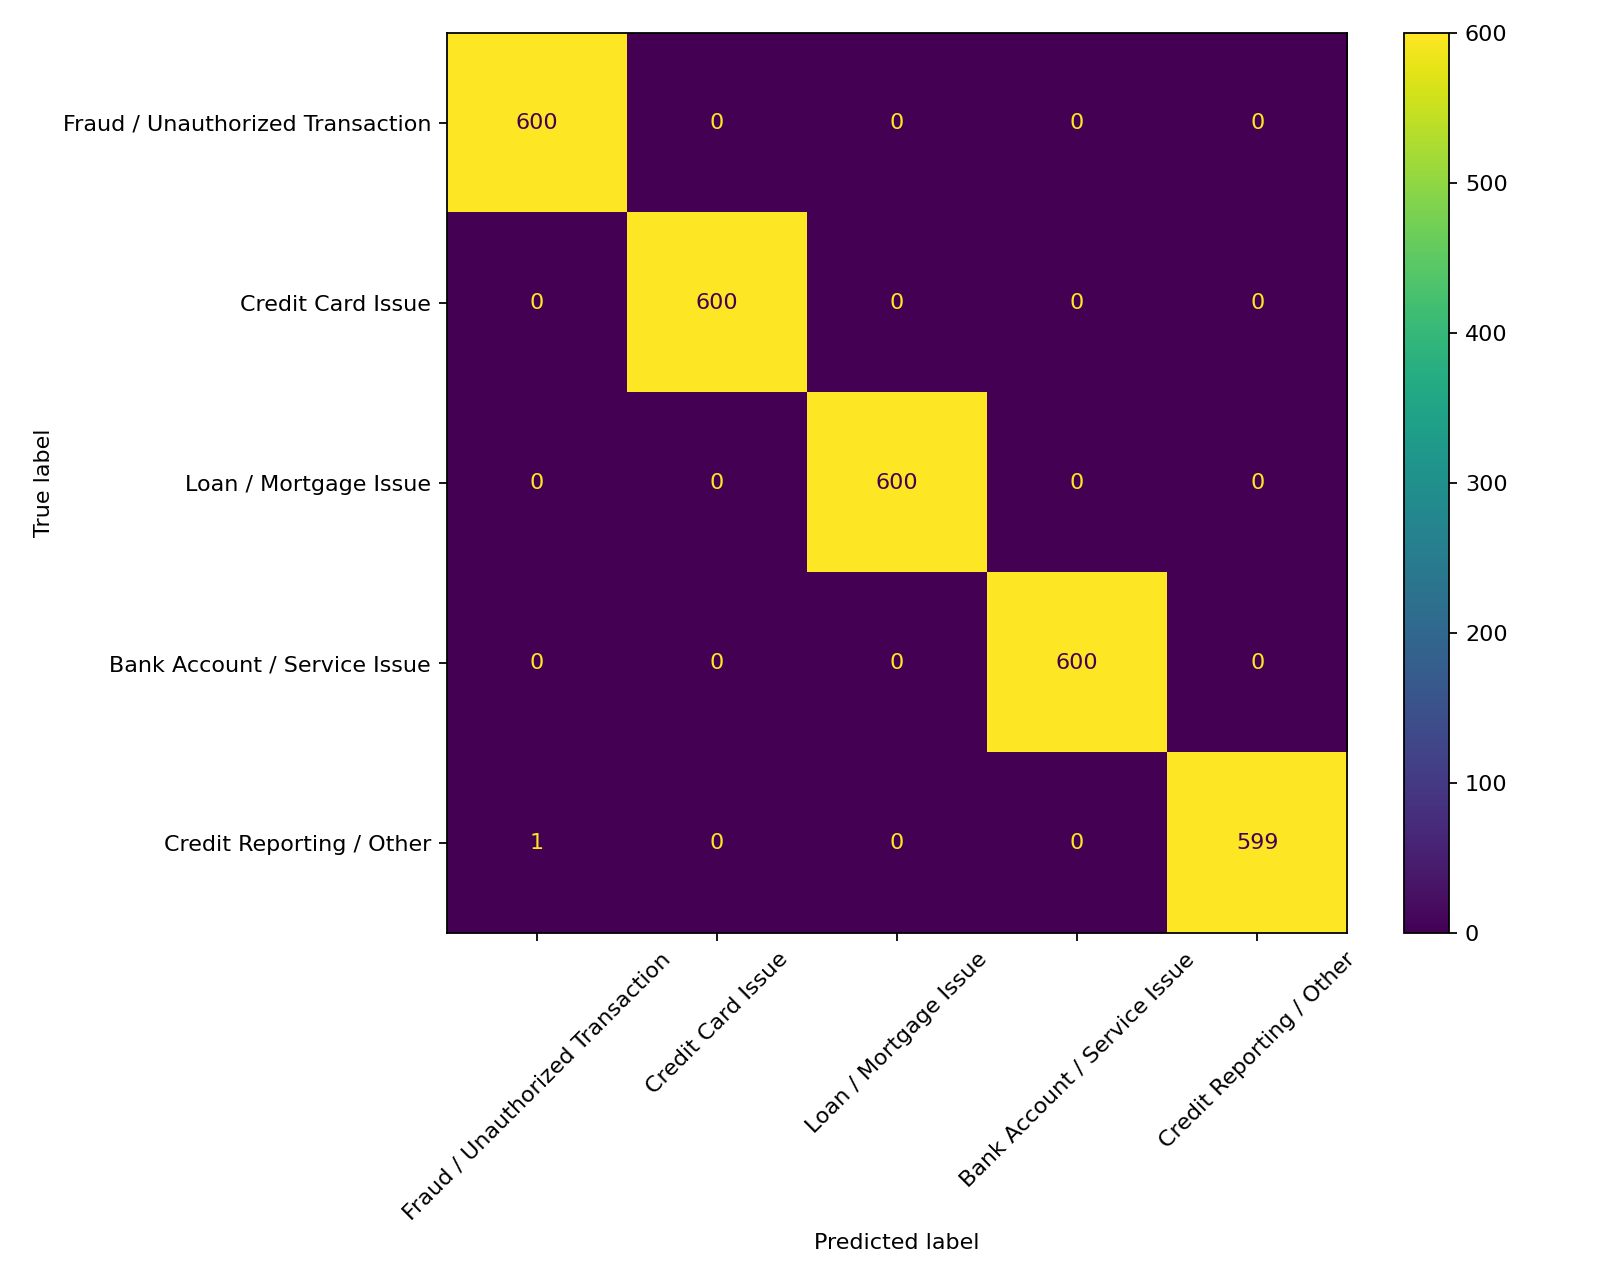
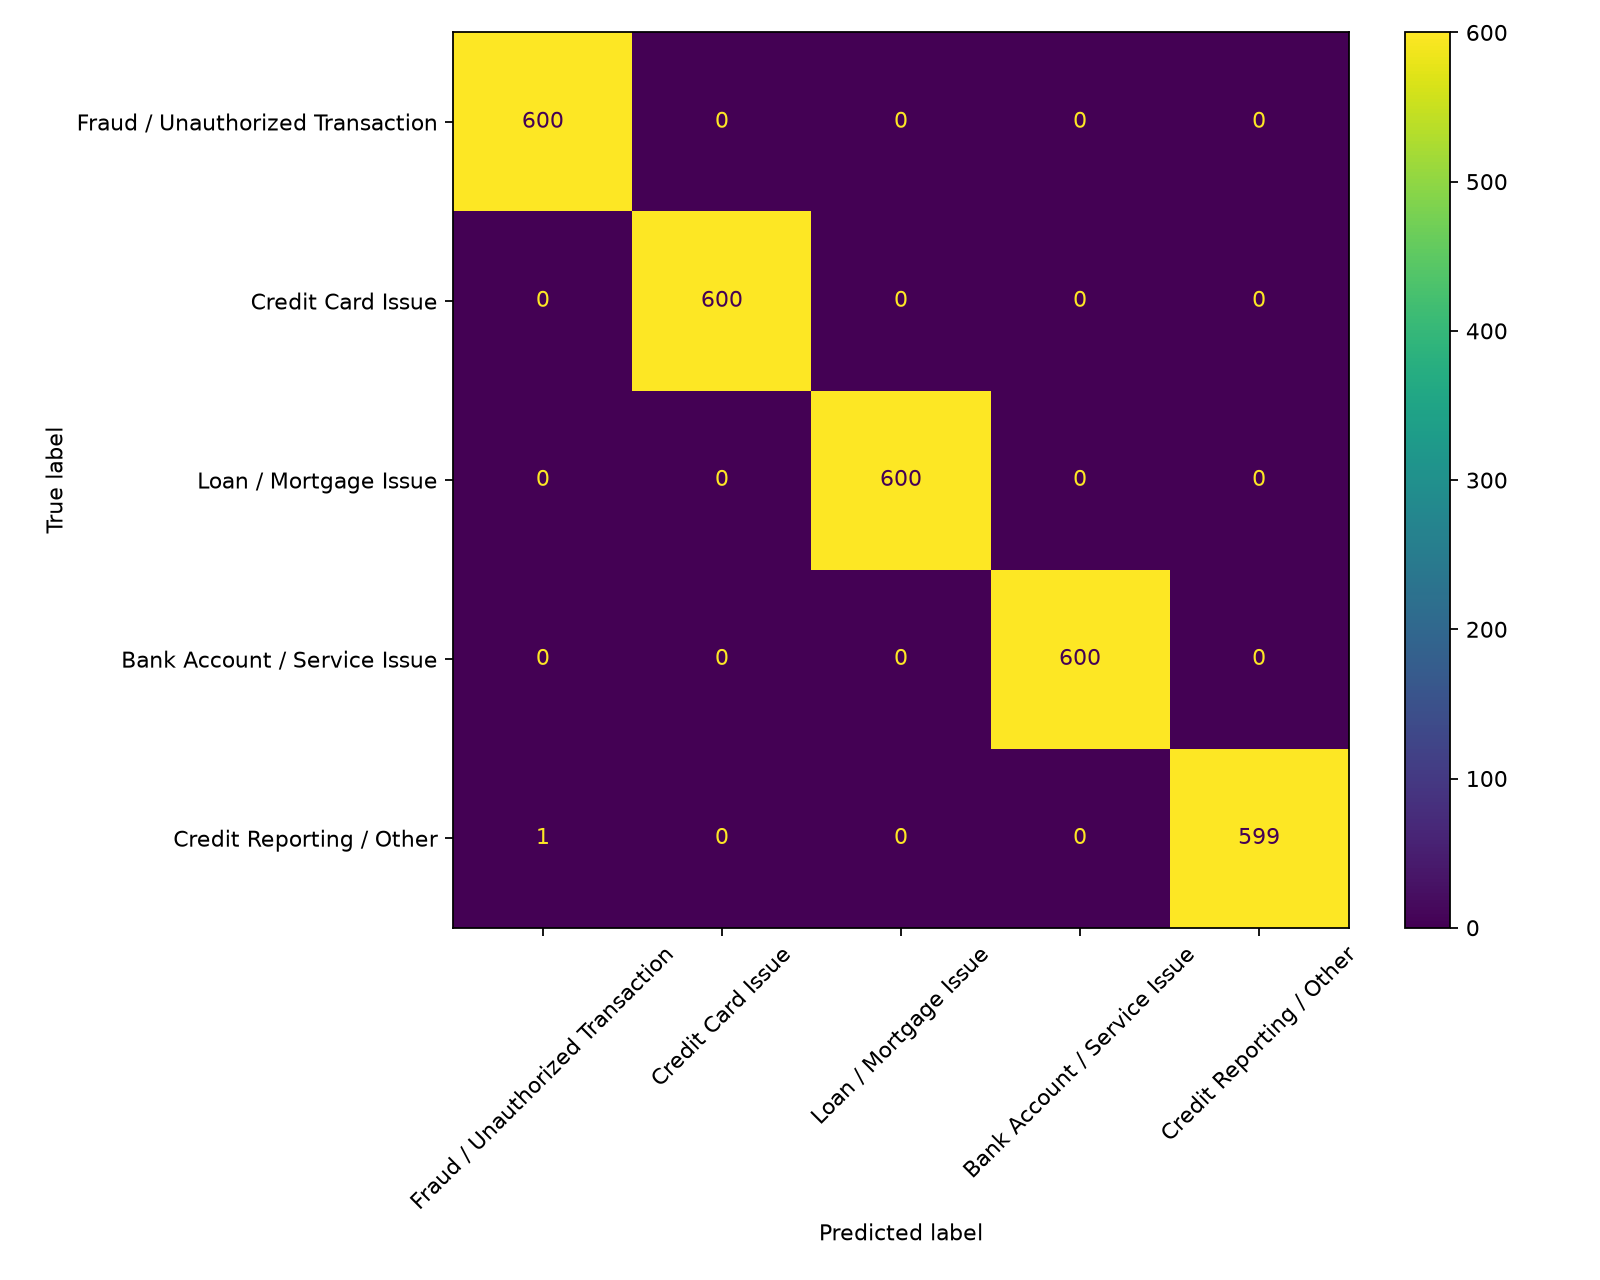
pray

diff --git a/PLAN.md b/PLAN.md
@@ -1,0 +1,346 @@
+# PLAN.md: Fraud-Aware Transaction Complaint Analyzer
+
+> Instructions for the coding agent: execute the phases below IN ORDER. After each phase run its
+> "Acceptance check", fix failures, then `git commit -m "phase N: <name>"`. Do not start the next
+> phase until the check passes. Ask the human only if blocked (e.g. dataset download fails).
+
+## 0. Project summary
+
+A banking web app (Flask + SQLite) where customers file free-text complaints about their
+transactions. An NLP pipeline classifies each complaint (category, sentiment, urgency), and the
+system raises fraud flags by combining NLP output with rule-based checks on transaction data. Staff
+review complaints and flags through a dashboard.
+
+Satisfies both subjects:
+- **DBMS:** normalized (3NF) schema, constraints, indexes, views, triggers, CRUD GUI, SQL reports.
+- **AI/NLP:** text cleaning, TF-IDF + Logistic Regression classifier, sentiment analysis,
+  urgency scoring, evaluation metrics (accuracy, macro-F1, confusion matrix).
+
+## 1. Tech stack (fixed, do not substitute)
+
+| Layer | Choice |
+|---|---|
+| Language | Python 3.11+ |
+| Web/GUI | Flask + Jinja2 templates + Bootstrap 5 (CDN) + Chart.js (CDN) |
+| Database | SQLite via the built-in `sqlite3` module, **raw SQL** (no ORM, so SQL is visible for evaluation). Keep DDL MySQL-portable where possible. |
+| NLP/ML | pandas, scikit-learn, nltk (VADER), joblib |
+| Testing | pytest |
+| Diagrams | Mermaid (`.mmd`), exported to PNG with `npx @mermaid-js/mermaid-cli` if available |
+
+`requirements.txt`: flask, pandas, scikit-learn, nltk, joblib, pytest, matplotlib, werkzeug, faker
+
+## 2. Repository layout
+
+```
+complaint-analyzer/
+├── app/
+│   ├── __init__.py          # Flask app factory, registers blueprints
+│   ├── db.py                # get_db(), init_db(), query helpers
+│   ├── auth.py              # login/logout, role_required decorator
+│   ├── routes/
+│   │   ├── customers.py  accounts.py  transactions.py
+│   │   ├── complaints.py fraud.py     reports.py   model_info.py
+│   ├── services/
+│   │   ├── nlp_service.py   # load model, predict(text) -> dict
+│   │   └── fraud_rules.py   # rule-based transaction checks
+│   ├── templates/           # base.html + one folder per module
+│   └── static/
+├── sql/
+│   ├── schema.sql  triggers.sql  views.sql  indexes.sql  queries.sql
+├── ml/
+│   ├── prepare_data.py      # clean + map CFPB data -> data/processed.csv
+│   ├── train.py             # train, evaluate, save model + metrics
+│   └── models/              # complaint_clf.joblib (git-ignored if large)
+├── data/                    # raw/ (CFPB csv), processed.csv, seed outputs
+├── scripts/seed_db.py       # fake customers/accounts/transactions + sample complaints
+├── tests/                   # test_db.py test_nlp.py test_rules.py test_routes.py
+├── docs/                    # SRS.md erd.mmd normalization.md TEST_REPORT.md PROGRESS.md
+├── config.py  run.py  requirements.txt  README.md
+```
+
+## 3. Database design
+
+### 3.1 Tables (create in `sql/schema.sql`; enable `PRAGMA foreign_keys = ON` on every connection)
+
+```sql
+CREATE TABLE account_types (
+  type_id INTEGER PRIMARY KEY AUTOINCREMENT,
+  type_name TEXT NOT NULL UNIQUE            -- Savings, Current, Credit Card, Loan
+);
+CREATE TABLE customers (
+  customer_id INTEGER PRIMARY KEY AUTOINCREMENT,
+  full_name TEXT NOT NULL,
+  email TEXT NOT NULL UNIQUE CHECK (email LIKE '%_@_%._%'),
+  phone TEXT,
+  city TEXT,
+  created_at TEXT NOT NULL DEFAULT (datetime('now'))
+);
+CREATE TABLE accounts (
+  account_id INTEGER PRIMARY KEY AUTOINCREMENT,
+  customer_id INTEGER NOT NULL REFERENCES customers(customer_id) ON DELETE CASCADE,
+  type_id INTEGER NOT NULL REFERENCES account_types(type_id),
+  account_number TEXT NOT NULL UNIQUE,
+  balance REAL NOT NULL DEFAULT 0,
+  status TEXT NOT NULL DEFAULT 'ACTIVE' CHECK (status IN ('ACTIVE','FROZEN','CLOSED')),
+  opened_on TEXT NOT NULL DEFAULT (date('now'))
+);
+CREATE TABLE transactions (
+  txn_id INTEGER PRIMARY KEY AUTOINCREMENT,
+  account_id INTEGER NOT NULL REFERENCES accounts(account_id) ON DELETE CASCADE,
+  txn_type TEXT NOT NULL CHECK (txn_type IN ('CREDIT','DEBIT')),
+  amount REAL NOT NULL CHECK (amount > 0),
+  merchant TEXT,
+  location TEXT,                             -- city/country string
+  txn_time TEXT NOT NULL DEFAULT (datetime('now')),
+  status TEXT NOT NULL DEFAULT 'COMPLETED' CHECK (status IN ('COMPLETED','DISPUTED','REVERSED'))
+);
+CREATE TABLE complaint_categories (
+  category_id INTEGER PRIMARY KEY AUTOINCREMENT,
+  name TEXT NOT NULL UNIQUE                  -- see 4.2 for the 5 fixed values
+);
+CREATE TABLE model_versions (
+  model_id INTEGER PRIMARY KEY AUTOINCREMENT,
+  name TEXT NOT NULL,
+  accuracy REAL, macro_f1 REAL,
+  trained_at TEXT NOT NULL DEFAULT (datetime('now'))
+);
+CREATE TABLE staff (
+  staff_id INTEGER PRIMARY KEY AUTOINCREMENT,
+  username TEXT NOT NULL UNIQUE,
+  password_hash TEXT NOT NULL,
+  role TEXT NOT NULL CHECK (role IN ('ADMIN','AGENT'))
+);
+CREATE TABLE complaints (
+  complaint_id INTEGER PRIMARY KEY AUTOINCREMENT,
+  customer_id INTEGER NOT NULL REFERENCES customers(customer_id) ON DELETE CASCADE,
+  account_id INTEGER REFERENCES accounts(account_id),
+  txn_id INTEGER REFERENCES transactions(txn_id),
+  complaint_text TEXT NOT NULL CHECK (length(complaint_text) >= 20),
+  submitted_at TEXT NOT NULL DEFAULT (datetime('now')),
+  status TEXT NOT NULL DEFAULT 'OPEN' CHECK (status IN ('OPEN','IN_REVIEW','RESOLVED','REJECTED')),
+  category_id INTEGER REFERENCES complaint_categories(category_id),   -- predicted/overridden
+  confidence REAL,
+  sentiment_score REAL,                      -- VADER compound, -1..1
+  sentiment_label TEXT CHECK (sentiment_label IN ('NEGATIVE','NEUTRAL','POSITIVE')),
+  urgency TEXT CHECK (urgency IN ('LOW','MEDIUM','HIGH')),
+  model_id INTEGER REFERENCES model_versions(model_id),
+  resolved_at TEXT
+);
+CREATE TABLE fraud_flags (
+  flag_id INTEGER PRIMARY KEY AUTOINCREMENT,
+  txn_id INTEGER NOT NULL REFERENCES transactions(txn_id) ON DELETE CASCADE,
+  complaint_id INTEGER REFERENCES complaints(complaint_id) ON DELETE SET NULL,
+  source TEXT NOT NULL CHECK (source IN ('RULE','NLP','MANUAL')),
+  reason TEXT NOT NULL,
+  severity TEXT NOT NULL CHECK (severity IN ('LOW','MEDIUM','HIGH')),
+  status TEXT NOT NULL DEFAULT 'PENDING' CHECK (status IN ('PENDING','CONFIRMED','DISMISSED')),
+  reviewed_by INTEGER REFERENCES staff(staff_id),
+  created_at TEXT NOT NULL DEFAULT (datetime('now'))
+);
+CREATE TABLE complaint_actions (            -- audit trail
+  action_id INTEGER PRIMARY KEY AUTOINCREMENT,
+  complaint_id INTEGER NOT NULL REFERENCES complaints(complaint_id) ON DELETE CASCADE,
+  staff_id INTEGER REFERENCES staff(staff_id),
+  action TEXT NOT NULL,                     -- e.g. STATUS_CHANGED, CATEGORY_OVERRIDDEN, NOTE
+  note TEXT,
+  acted_at TEXT NOT NULL DEFAULT (datetime('now'))
+);
+```
+
+### 3.2 Indexes (`sql/indexes.sql`)
+`transactions(account_id, txn_time)`, `complaints(customer_id)`, `complaints(status, urgency)`,
+`complaints(category_id)`, `fraud_flags(status)`, `accounts(customer_id)`.
+
+### 3.3 Triggers (`sql/triggers.sql`)
+1. `trg_txn_update_balance` AFTER INSERT ON transactions: add amount for CREDIT, subtract for DEBIT.
+2. `trg_complaint_fraud_flag` AFTER INSERT ON complaints WHEN `NEW.txn_id IS NOT NULL` AND NEW
+   category is "Fraud / Unauthorized Transaction": insert a `fraud_flags` row (source `NLP`,
+   severity from `NEW.urgency`) and set that transaction's status to `DISPUTED`.
+3. `trg_complaint_status_audit` AFTER UPDATE OF status ON complaints: insert into
+   `complaint_actions`; if new status is `RESOLVED`, set `resolved_at`.
+
+### 3.4 Views (`sql/views.sql`)
+- `v_complaint_overview`: complaint + customer name + category name + account number + txn amount.
+- `v_fraud_dashboard`: flags joined with transaction, customer and complaint.
+- `v_category_stats`: complaint count, avg sentiment, % HIGH urgency per category.
+- `v_monthly_complaints`: complaints per month per category.
+
+### 3.5 Report queries (`sql/queries.sql`, each wired to the Reports page)
+Top 10 customers by complaint count; avg resolution time per category; accounts with 3+ fraud
+flags (GROUP BY/HAVING); transactions flagged by both RULE and NLP (INTERSECT or self-join);
+customers with no complaints (LEFT JOIN / NOT EXISTS); complaints above average negative sentiment
+(subquery).
+
+### 3.6 Normalization document (`docs/normalization.md`)
+Show a deliberately un-normalized flat table (customer, account, account type, transaction,
+complaint, category in one row), then walk through 1NF (atomic values, key), 2NF (remove partial
+dependencies: split customers/accounts/transactions), 3NF (remove transitive dependencies:
+account_types, complaint_categories, model_versions). List functional dependencies for each final
+table and state that all tables are in 3NF (and BCNF where it applies).
+
+### 3.7 ER diagram (`docs/erd.mmd`)
+```mermaid
+erDiagram
+  CUSTOMERS ||--o{ ACCOUNTS : owns
+  ACCOUNT_TYPES ||--o{ ACCOUNTS : classifies
+  ACCOUNTS ||--o{ TRANSACTIONS : has
+  CUSTOMERS ||--o{ COMPLAINTS : files
+  ACCOUNTS ||--o{ COMPLAINTS : concerns
+  TRANSACTIONS ||--o{ COMPLAINTS : disputed_in
+  COMPLAINT_CATEGORIES ||--o{ COMPLAINTS : tags
+  MODEL_VERSIONS ||--o{ COMPLAINTS : predicted_by
+  TRANSACTIONS ||--o{ FRAUD_FLAGS : flagged
+  COMPLAINTS ||--o{ FRAUD_FLAGS : triggers
+  STAFF ||--o{ FRAUD_FLAGS : reviews
+  COMPLAINTS ||--o{ COMPLAINT_ACTIONS : logs
+  STAFF ||--o{ COMPLAINT_ACTIONS : performs
+```
+Also export a PNG to `docs/erd.png`, and add the attributes to each entity before exporting.
+
+## 4. NLP / ML pipeline
+
+### 4.1 Data
+- Dataset: CFPB Consumer Complaint Database (consumerfinance.gov, "Consumer Complaint Database"
+  CSV export). The human downloads it to `data/raw/complaints.csv`. If it is missing, **stop and
+  ask the human**; as a fallback only, generate a small synthetic dataset so the pipeline can be
+  tested, and clearly mark it synthetic.
+- Inspect the actual column names first (they vary by export year). Keep rows where the
+  narrative column is non-empty.
+- Sample at most ~3,000 rows per category for balance and fast training.
+
+### 4.2 Fixed label set (5 categories, seeded into `complaint_categories`)
+1. `Fraud / Unauthorized Transaction`
+2. `Credit Card Issue`
+3. `Loan / Mortgage Issue`
+4. `Bank Account / Service Issue`
+5. `Credit Reporting / Other`
+
+Mapping (`ml/prepare_data.py`): use the CFPB `Product` column for categories 2-5, then override to
+category 1 when `Issue`/`Sub-issue` or the narrative matches
+`fraud|unauthorized|scam|stolen|identity theft|did not authorize|not my transaction`.
+Print the final class counts and save `data/processed.csv` with columns `text,label`.
+
+### 4.3 Preprocessing
+Lowercase, remove masked tokens (`XXXX`, `{$...}`), strip digits and punctuation, collapse
+whitespace. Keep it in one function `clean_text()` shared by training and inference.
+
+### 4.4 Model (`ml/train.py`)
+- `TfidfVectorizer(ngram_range=(1,2), min_df=5, max_df=0.9, stop_words='english')`
+- `LogisticRegression(max_iter=1000, class_weight='balanced')` in a single sklearn `Pipeline`
+- Stratified 80/20 split, `random_state=42`
+- Save: `ml/models/complaint_clf.joblib`, `ml/models/metrics.json` (accuracy, macro-F1, per-class
+  precision/recall/F1), `docs/confusion_matrix.png`, and the top 10 TF-IDF terms per class
+  (`docs/top_terms.md`)
+- Insert a row into `model_versions` with accuracy and macro-F1.
+- Target: macro-F1 >= 0.70. Report the real number honestly even if it is lower.
+
+### 4.5 Sentiment and urgency (`app/services/nlp_service.py`)
+- Sentiment: NLTK VADER compound score; label NEGATIVE <= -0.05, POSITIVE >= 0.05, else NEUTRAL.
+  Download `vader_lexicon` at setup.
+- Urgency (heuristic, document it as such in the SRS): start at score 0.
+  +2 if category is Fraud; +1 if sentiment <= -0.5; +1 if text contains
+  `immediately|urgent|stolen|drained|lost all|cannot access|emergency`; +1 if a linked transaction
+  amount is above 10,000. Score >= 3 is HIGH, 2 is MEDIUM, otherwise LOW.
+- `predict(text, txn_amount=None)` returns
+  `{category, confidence, sentiment_score, sentiment_label, urgency, model_id}`.
+- If confidence < 0.45, store the category but mark the complaint `IN_REVIEW` for manual
+  categorisation.
+
+## 5. Rule-based fraud checks (`app/services/fraud_rules.py`)
+
+Run on every new transaction (called from the transactions route after insert) and write to
+`fraud_flags` with source `RULE`:
+1. **Amount spike:** amount > 5x the account's average DEBIT amount (needs >= 5 prior txns). HIGH.
+2. **Velocity:** 4 or more DEBIT transactions on one account within 10 minutes. MEDIUM.
+3. **Location change:** location differs from the account's most common location in the last 30
+   days. MEDIUM.
+Avoid duplicate flags (same txn + same reason).
+
+## 6. Application (Flask)
+
+### 6.1 Auth and roles
+Staff login with hashed passwords (`werkzeug.security`). ADMIN: everything including staff,
+customers and model info. AGENT: complaints, fraud flags, reports (read-only on customers).
+Customer-facing "Submit complaint" page needs no login but looks the customer up by email +
+account number.
+
+### 6.2 Pages and routes
+| Page | Route | Notes |
+|---|---|---|
+| Login / logout | `/login` `/logout` | |
+| Dashboard | `/` | KPI cards (open complaints, high urgency, pending flags), Chart.js: complaints by category, monthly trend, sentiment split |
+| Customers CRUD | `/customers` | list, search, add, edit, delete with confirm |
+| Accounts CRUD | `/accounts` | filter by customer; shows balance |
+| Transactions | `/transactions` | list + add (runs fraud rules); filter by account/date/status |
+| Submit complaint | `/complaint/new` | free text + optional transaction picker; shows predicted category and urgency on success |
+| Complaints | `/complaints` | filters: status, category, urgency, sentiment; sortable |
+| Complaint detail | `/complaints/<id>` | override category, change status, add note, audit trail, linked transaction and flags |
+| Fraud flags | `/fraud` | review queue: confirm / dismiss |
+| Reports | `/reports` | the queries in 3.5 as tables, with CSV export |
+| Model info | `/model` | latest metrics, confusion matrix image, "try it" box that classifies pasted text without saving |
+
+### 6.3 Quality rules
+- All SQL uses parameterised queries (no string formatting) to prevent SQL injection.
+- Server-side validation plus friendly flash messages; Jinja autoescape stays on.
+- Consistent Bootstrap layout via `base.html`, with responsive tables and flash alerts.
+- Load the model once at app start, not per request.
+
+## 7. Seed data (`scripts/seed_db.py`)
+Idempotent script (drops and recreates the DB when run with `--reset`):
+- 5 account types, 5 categories, 1 ADMIN (`admin` / `admin123`), 1 AGENT (`agent` / `agent123`);
+  print a note that these are demo credentials only.
+- 200 customers, ~300 accounts, ~5,000 transactions across 6 months (Faker, fixed seed), including
+  some injected anomalies (spikes, bursts, foreign locations).
+- 150 sample complaints sampled from the processed CFPB data and linked to random customers and
+  transactions, each run through `nlp_service.predict`.
+
+## 8. Testing (`tests/`, run with `pytest -v`)
+- `test_db.py`: constraint violations (bad email, negative amount, invalid status, FK failure),
+  cascade delete, each trigger fires correctly, each view returns rows.
+- `test_nlp.py`: `clean_text` cases, predict returns required keys, obvious fraud sentence maps to
+  category 1, VADER label thresholds, urgency heuristic cases.
+- `test_rules.py`: each fraud rule triggers and does not trigger on crafted data; no duplicate flags.
+- `test_routes.py`: Flask test client: login required, role restrictions, create/edit/delete
+  customer, submit complaint end to end, SQL-injection string is handled safely.
+- Generate `docs/TEST_REPORT.md` containing: test environment, a table of test cases (ID,
+  description, input, expected, actual, pass/fail), pytest summary, ML metrics table, known
+  limitations.
+
+## 9. Documentation deliverables (`docs/`)
+- `SRS.md` (IEEE-style): purpose, scope, users, functional requirements (numbered FR-1...),
+  non-functional requirements, constraints, use cases (submit complaint, review flag, override
+  category), assumptions, ER diagram reference.
+- `normalization.md`, `erd.mmd` and `erd.png` (section 3).
+- `TEST_REPORT.md` (section 8).
+- `PROGRESS.md`: weekly log table (week, planned, done, owner, blockers); pre-fill the plan below.
+- `README.md`: setup (`python -m venv`, `pip install -r requirements.txt`, download dataset, run
+  `python ml/prepare_data.py && python ml/train.py && python scripts/seed_db.py --reset &&
+  python run.py`), screenshots placeholder, team roles.
+
+## 10. Phases (agent execution order)
+
+| # | Phase | Output | Acceptance check |
+|---|---|---|---|
+| 1 | Scaffold | repo layout, venv notes, requirements, config, app factory, `/` hello page | `python run.py` serves the page |
+| 2 | Database | all `sql/*.sql`, `db.py`, `init_db` | `init_db` runs clean; `test_db.py` passes |
+| 3 | Data + ML | prepare_data, train, metrics, model_versions row | `metrics.json` exists; macro-F1 printed |
+| 4 | NLP service | `nlp_service.py`, `fraud_rules.py` | `test_nlp.py`, `test_rules.py` pass |
+| 5 | Seed | `seed_db.py` | counts in 7 match; views return data |
+| 6 | Auth + CRUD GUI | customers, accounts, transactions pages | manual walkthrough + route tests pass |
+| 7 | Complaint workflow | submit, list, detail, fraud queue | end-to-end test: submit a fraud complaint, see a flag created by the trigger |
+| 8 | Dashboard + reports + model page | charts, queries, CSV export | all report queries render without error |
+| 9 | Testing + docs | TEST_REPORT, SRS, normalization, ERD PNG | `pytest` all green; docs complete |
+| 10 | Polish | error pages (404/500), UI cleanup, README, final demo script | fresh clone to running app using README only |
+
+## 11. Suggested 5-week schedule (for PROGRESS.md)
+Week 1: SRS draft, ER diagram, schema, normalization. Week 2: DB, seed, dataset prep, baseline
+model. Week 3: CRUD GUI, NLP service, fraud rules. Week 4: complaint workflow, dashboard, reports.
+Week 5: testing, report, demo rehearsal.
+
+## 12. Definition of done
+- A fresh clone runs by following README only.
+- `pytest` passes; the TEST_REPORT shows real results.
+- All 6 deliverables exist: SRS, ER diagram, normalized schema doc, GUI, source code, test report.
+- Demo path works: log in, add a transaction (rule flag appears), submit a fraud complaint
+  (classified, urgency set, trigger flag appears), review the flag, view the dashboard.
+- No secrets committed; demo credentials are documented as demo-only.
